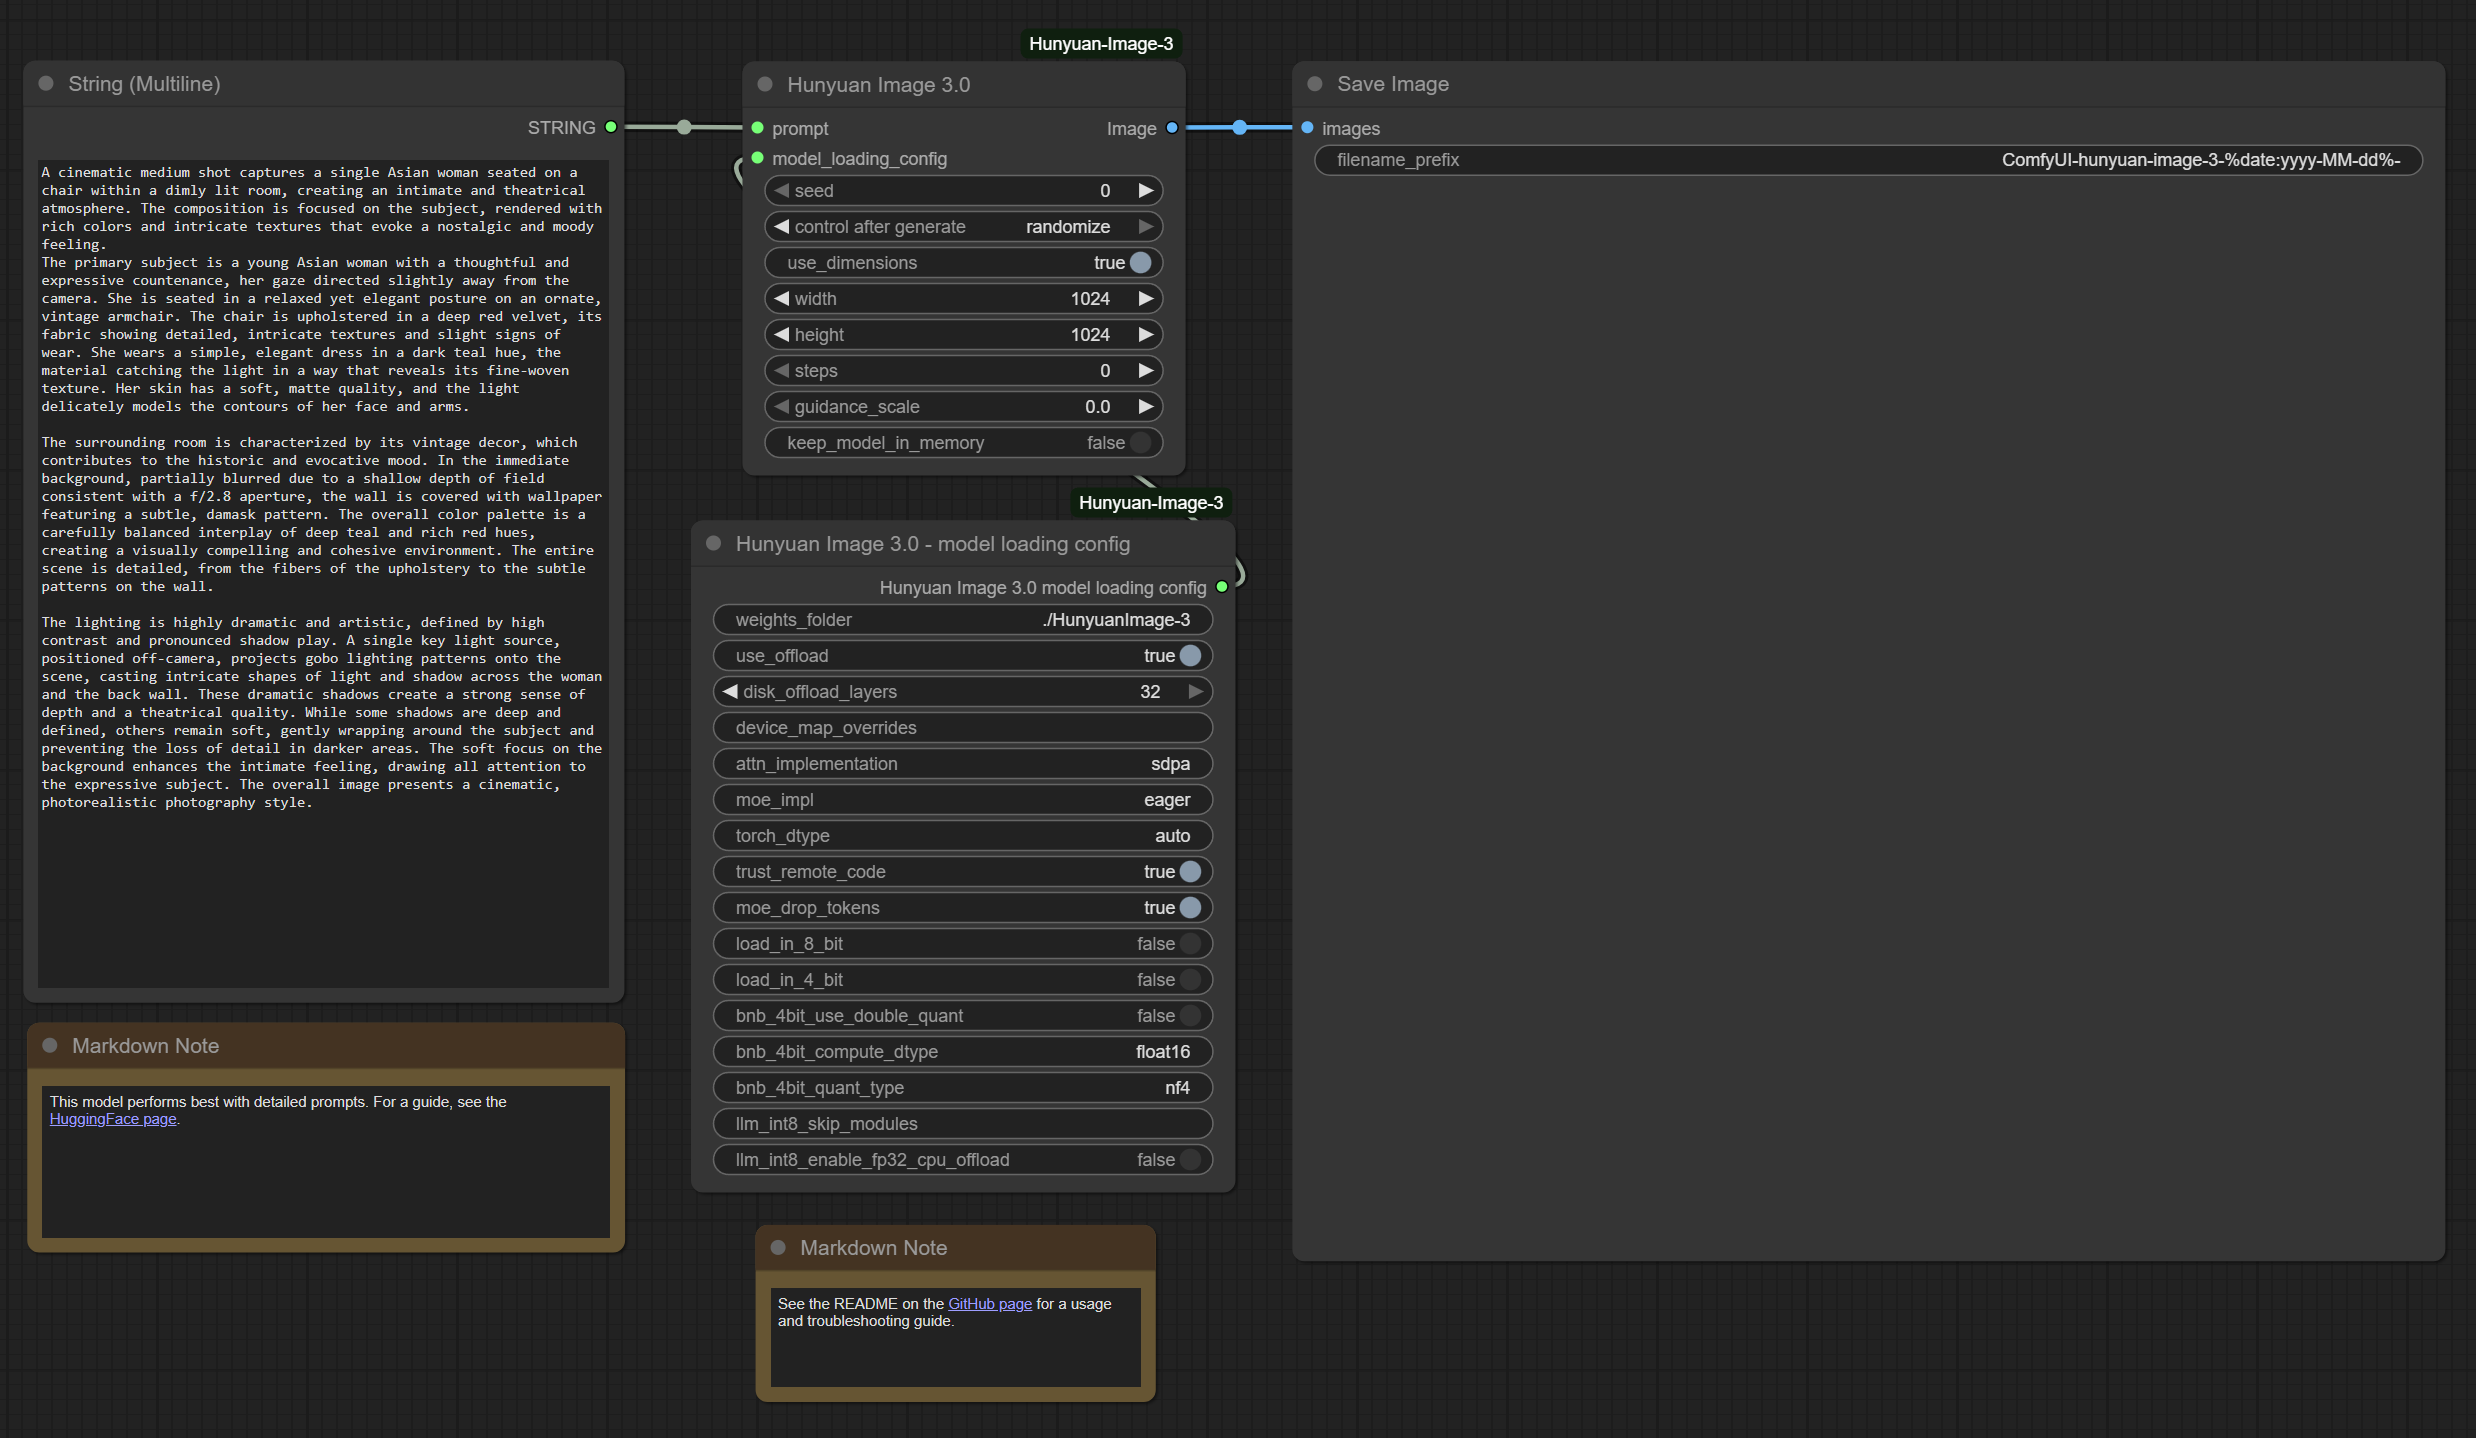
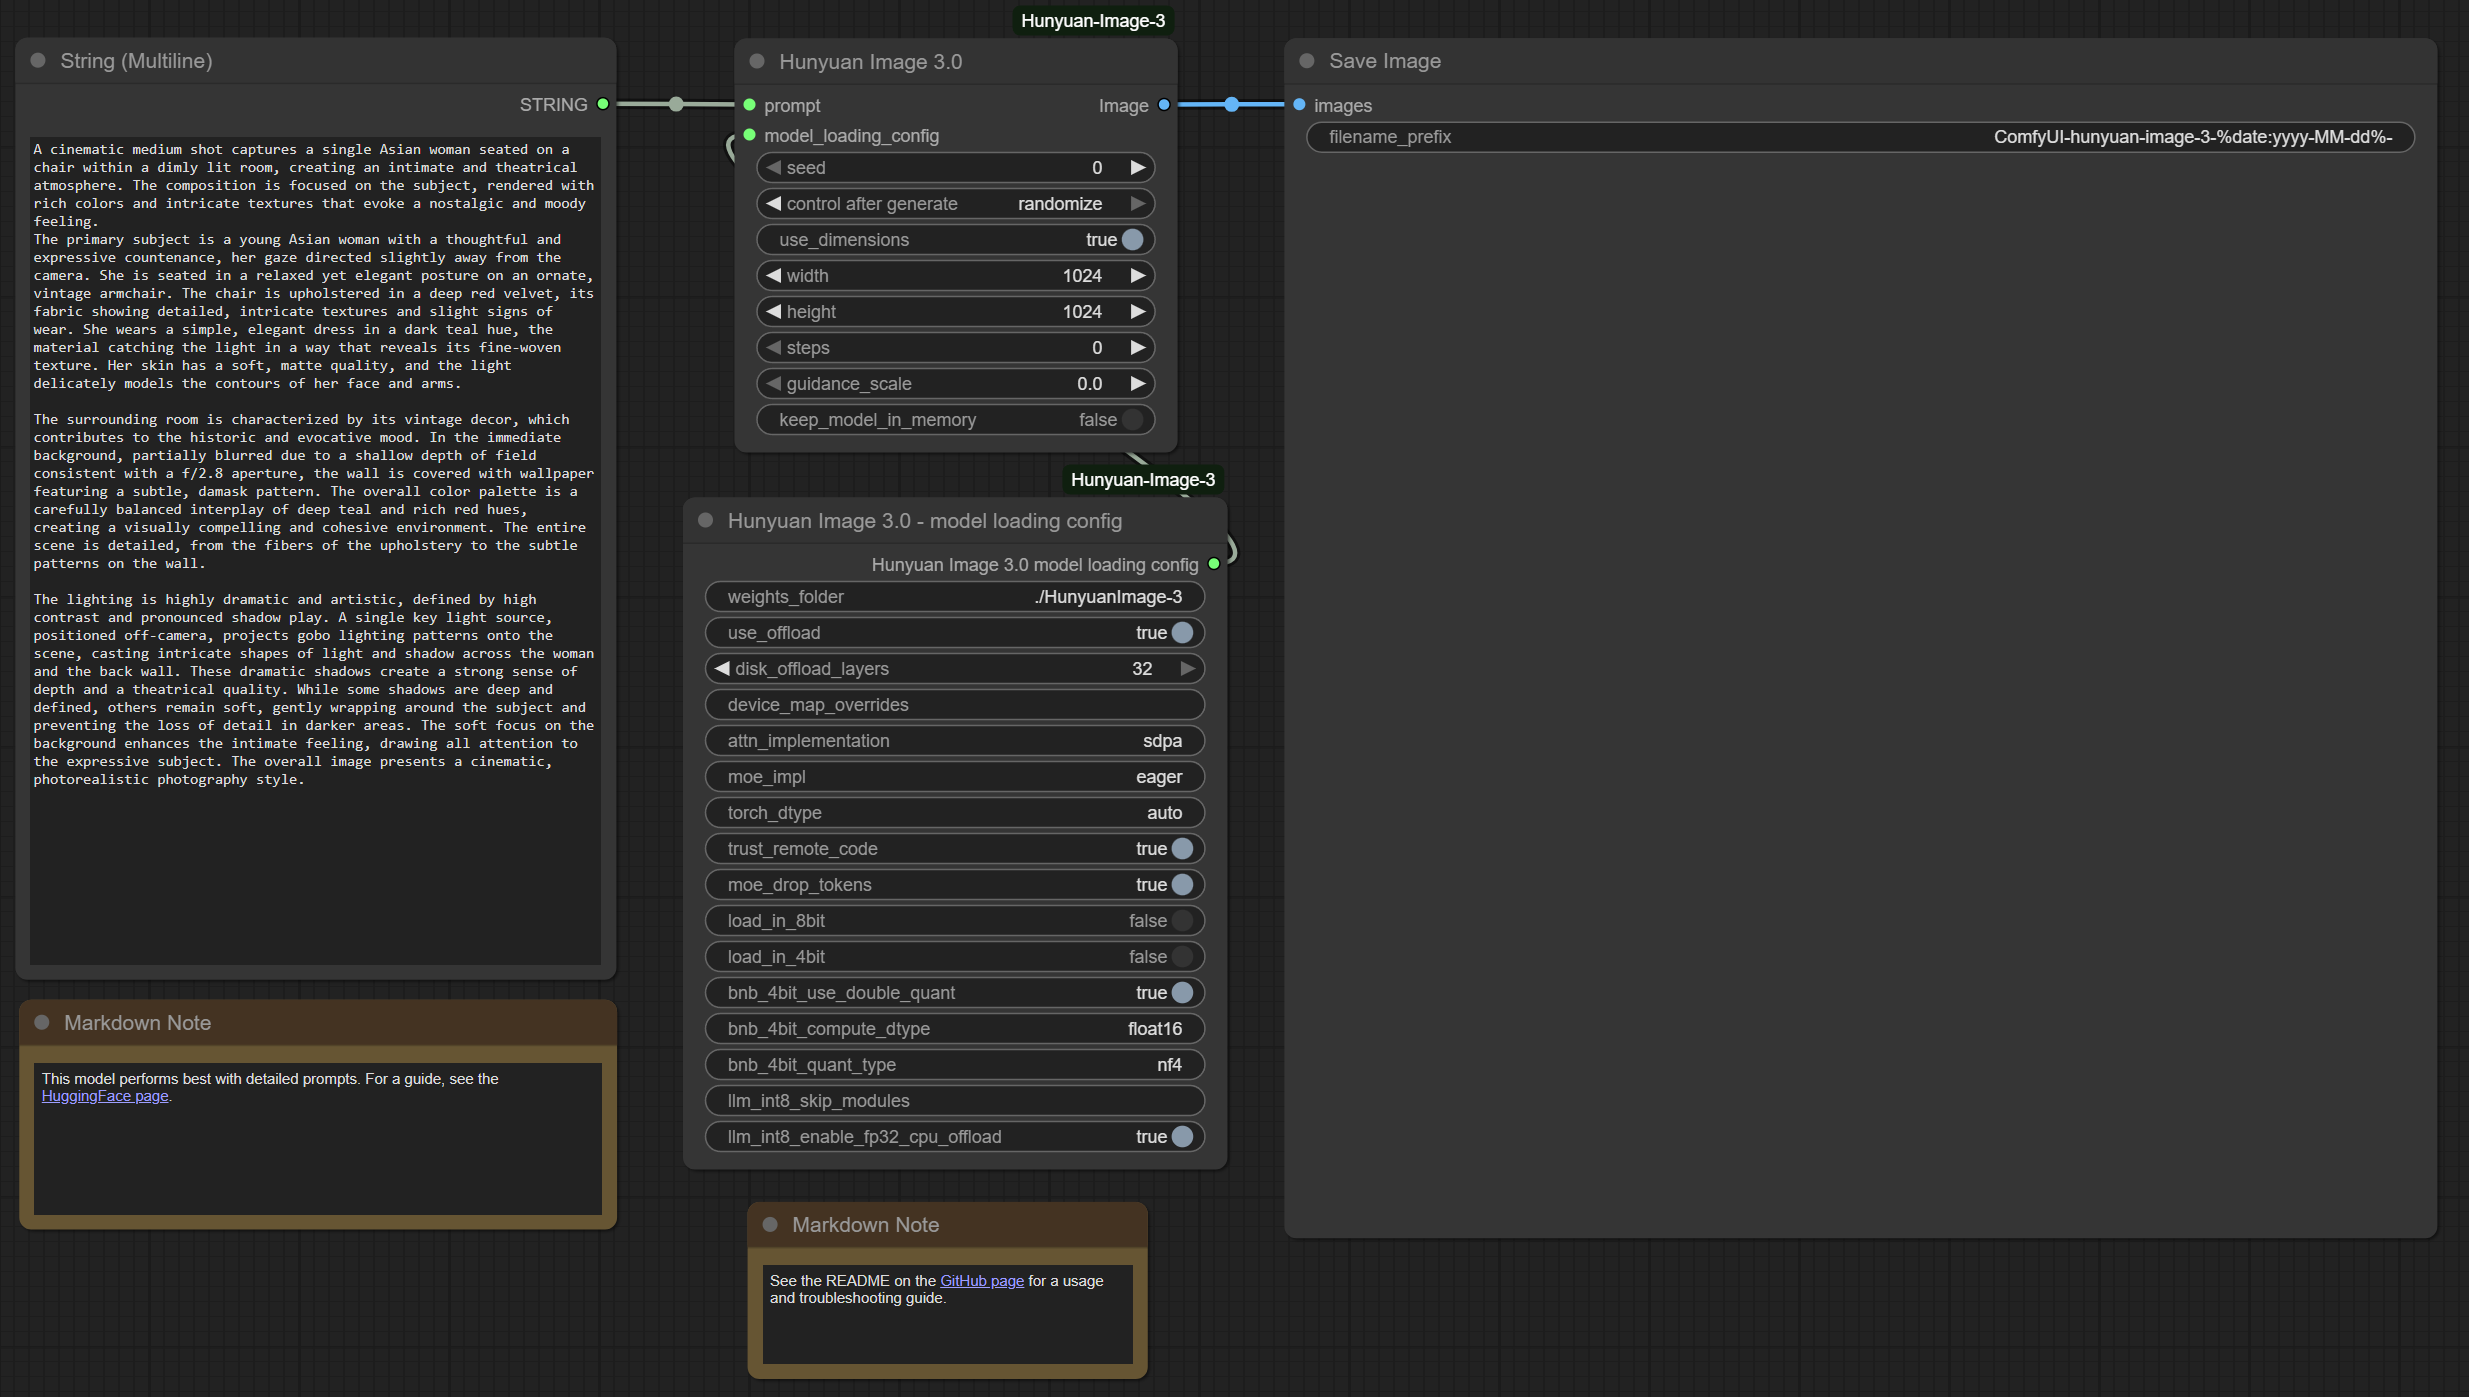
fix bug -> load_in_8bit and load_in_4bit were misnamed

Changed region(s): [[0.0, 0.0, 0.9668, 1.0], [0.0, 0.7079, 0.2495, 0.8926], [0.0, 0.0308, 0.0936, 0.0616]]

diff --git a/hunyuan_image_3_gen.py b/hunyuan_image_3_gen.py
@@ -123,8 +123,8 @@ class HunyuanImage3ModelLoadingConfig:
                 "trust_remote_code": ("BOOLEAN", {"default": True, "tooltip": "Must be set to True."}),
                 "moe_drop_tokens": ("BOOLEAN", {"default": True, "tooltip": "Sets moe_drop_tokens=True on model loading."}),
 
-                "load_in_8_bit": ("BOOLEAN", {"default": False, "tooltip": "A BitsAndBytes parameter."}),
-                "load_in_4_bit": ("BOOLEAN", {"default": False, "tooltip": "A BitsAndBytes parameter."}),
+                "load_in_8bit": ("BOOLEAN", {"default": False, "tooltip": "A BitsAndBytes parameter."}),
+                "load_in_4bit": ("BOOLEAN", {"default": False, "tooltip": "A BitsAndBytes parameter."}),
                 "bnb_4bit_use_double_quant": ("BOOLEAN", {"default": False, "tooltip": "A BitsAndBytes parameter."}),
                 "bnb_4bit_compute_dtype": ("STRING", {"multiline": False, "default": "float16", "tooltip": "A BitsAndBytes parameter. Omit the \"torch\", e.g. for \"torch.float16\", just enter \"float16\"."}),
                 "bnb_4bit_quant_type": ("STRING", {"multiline": False, "default": "nf4", "tooltip": "A BitsAndBytes parameter."}),
@@ -154,8 +154,8 @@ class HunyuanImage3ModelLoadingConfig:
         trust_remote_code: bool,
         moe_drop_tokens: bool,
 
-        load_in_8_bit: bool,
-        load_in_4_bit: bool,
+        load_in_8bit: bool,
+        load_in_4bit: bool,
         bnb_4bit_use_double_quant: bool,
         bnb_4bit_compute_dtype: str,
         bnb_4bit_quant_type: str,
@@ -212,10 +212,10 @@ class HunyuanImage3ModelLoadingConfig:
         model_config['model_kwargs'] = model_kwargs
 
         # make bitsandbytes config
-        if load_in_8_bit or load_in_4_bit:
+        if load_in_8bit or load_in_4bit:
             bits_and_bytes_config = dict(
-                    load_in_8_bit=load_in_8_bit,
-                    load_in_4_bit=load_in_4_bit,
+                    load_in_8bit=load_in_8bit,
+                    load_in_4bit=load_in_4bit,
                     bnb_4bit_use_double_quant=bnb_4bit_use_double_quant,
                     llm_int8_enable_fp32_cpu_offload=llm_int8_enable_fp32_cpu_offload,
             )
@@ -231,7 +231,7 @@ class HunyuanImage3ModelLoadingConfig:
 
         # build a string that will change if the configuration is changed
         # TODO: this is used to tell the generation node whether it needs to reload the model. There is probably a built-in ComfyUI way for a node to know if its input has changed, and we should use that instead.
-        hash_string = f"{weights_folder}-{load_in_8_bit}-{load_in_4_bit}-{bnb_4bit_use_double_quant}-{bnb_4bit_compute_dtype}-{bnb_4bit_quant_type}-{llm_int8_skip_modules}-{llm_int8_enable_fp32_cpu_offload}-{attn_implementation}-{moe_impl}-{torch_dtype}-{trust_remote_code}-{use_offload}-{disk_offload_layers}-{device_map_overrides}-{moe_drop_tokens}"
+        hash_string = f"{weights_folder}-{load_in_8bit}-{load_in_4bit}-{bnb_4bit_use_double_quant}-{bnb_4bit_compute_dtype}-{bnb_4bit_quant_type}-{llm_int8_skip_modules}-{llm_int8_enable_fp32_cpu_offload}-{attn_implementation}-{moe_impl}-{torch_dtype}-{trust_remote_code}-{use_offload}-{disk_offload_layers}-{device_map_overrides}-{moe_drop_tokens}"
 
         model_config['hash_string'] = hash_string
 

diff --git a/README.md b/README.md
@@ -56,9 +56,9 @@ The model configuration node has the following inputs:
     - torch_dtype - This should usually be set to `auto`
     - trust_remote_code - This is required to be set to True for this model
     - moe_drop_tokens - Enables the moe_drop_tokens parameter on model loading. See the [Memory Troubleshooting](#memory-troubleshooting) section for more details.
-- quantization configuration - these are arguments passed to BitsAndBytes. If load_in_8_bit or load_in_4_bit are True, quantization will be used.
-    - load_in_8_bit
-    - load_in_4_bit
+- quantization configuration - these are arguments passed to BitsAndBytes. If load_in_8bit or load_in_4bit are True, quantization will be used.
+    - load_in_8bit
+    - load_in_4bit
     - bnb_4bit_use_double_quant
     - bnb_4bit_compute_dtype
     - bnb_4bit_quant_type
